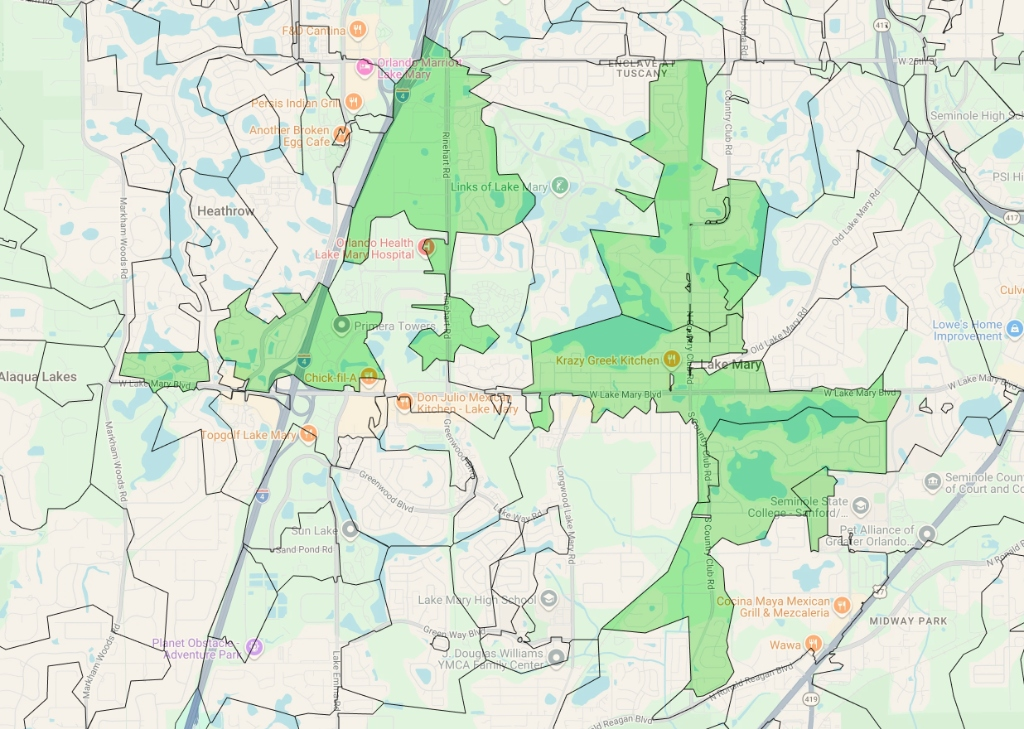
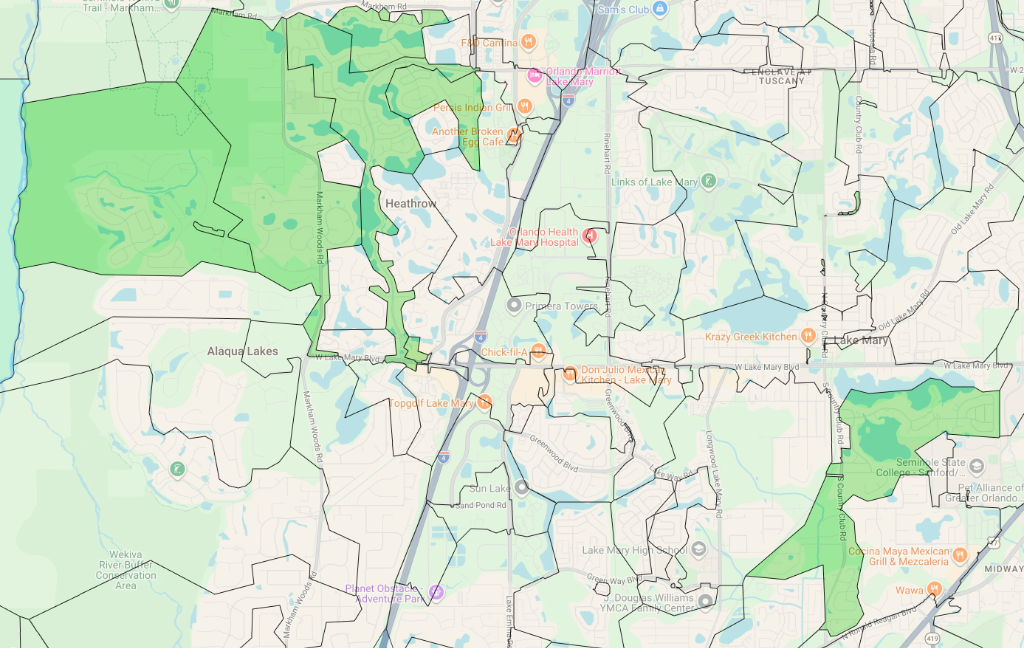
Update town averages: replace Markham Woods with Longwood, update Lake Mary statistics, and apply new map images

diff --git a/app/page.tsx b/app/page.tsx
@@ -53,7 +53,7 @@ function Reveal({
 }
 
 export default function HomePage({ initialSlug }: { initialSlug?: string }) {
-  const validSlugs = ["altamonte-springs", "lake-mary", "markham-woods", "sanford", "wekiva-springs"];
+  const validSlugs = ["altamonte-springs", "lake-mary", "longwood", "sanford", "wekiva-springs"];
 
   // Active location campaign slug: default to initialSlug or altamonte-springs
   const [activeSlug, setActiveSlug] = useState<string>(() => {
@@ -184,7 +184,7 @@ export default function HomePage({ initialSlug }: { initialSlug?: string }) {
   // Contact Form Placeholder details based on campaign
   const getBusinessPlaceholder = () => {
     switch (activeSlug) {
-      case "markham-woods": return "e.g. Heathrow Plumber";
+      case "longwood": return "e.g. Longwood Roofer";
       case "wekiva-springs": return "e.g. Sweetwater Med Spa";
       case "lake-mary": return "e.g. Lake Mary Dental";
       case "sanford": return "e.g. Historic Sanford Cafe";
@@ -318,7 +318,7 @@ export default function HomePage({ initialSlug }: { initialSlug?: string }) {
                 {campaignRoutes.map((c) => (
                   <button
                     key={c.slug}
-                    className={`location-btn ${activeSlug === (c.slug === "markham-woods" ? "markhamwoods" : c.slug) ? "active" : ""}`}
+                    className={`location-btn ${activeSlug === c.slug ? "active" : ""}`}
                     onClick={() => handleLocationChange(c.slug)}
                   >
                     {c.name}
@@ -472,7 +472,7 @@ export default function HomePage({ initialSlug }: { initialSlug?: string }) {
               {/* Map Wrapper displaying the clean map image */}
               <div className="map-wrapper">
                 <img
-                  src={activeAverages.mapImageUrl || "/assets/markham_woods_map.png"}
+                  src={activeAverages.mapImageUrl || "/assets/longwood_map.png"}
                   alt={`${activeCampaign.city} Coverage Map`}
                 />
               </div>

diff --git a/data/townAverages.ts b/data/townAverages.ts
@@ -38,11 +38,11 @@ export const townAverages: Record<string, TownAverage> = {
     slug: "lake-mary",
     city: "Lake Mary",
     doors: 2500,
-    income: "$125,283",
-    householdSize: 2.6,
-    age: 55,
-    residencyLength: 13,
-    homeowner: 91,
+    income: "$187,868",
+    householdSize: 3.0,
+    age: 54,
+    residencyLength: 14,
+    homeowner: 97,
     mapImageUrl: "/assets/lake_mary_map.png",
     cardType: "6x11",
     pricing: {
@@ -51,16 +51,16 @@ export const townAverages: Record<string, TownAverage> = {
       half: 0,
     },
   },
-  "markham-woods": {
-    slug: "markham-woods",
-    city: "Markham Woods",
+  "longwood": {
+    slug: "longwood",
+    city: "Longwood",
     doors: 5000,
-    income: "$211,831",
+    income: "$148,825",
     householdSize: 3.1,
-    age: 55,
-    residencyLength: 14,
-    homeowner: 97,
-    mapImageUrl: "/assets/markham_woods_map.png",
+    age: 53,
+    residencyLength: 15,
+    homeowner: 94,
+    mapImageUrl: "/assets/longwood_map.png",
     cardType: "9x12",
     pricing: {
       standard: 499,

diff --git a/data/routes.ts b/data/routes.ts
@@ -85,10 +85,10 @@ export const campaignRoutes: CampaignRoute[] = [
     slots: createTownSlots(community6x11SlotTemplate, [])
   },
   {
-    slug: "markham-woods",
-    name: "Markham Woods",
-    tagline: "Connecting Markham Woods Businesses With Local Families",
-    city: "Markham Woods",
+    slug: "longwood",
+    name: "Longwood",
+    tagline: "Reaching Premium Longwood Estates & Neighborhoods",
+    city: "Longwood",
     state: "FL",
     size: 5000,
     totalSlots: 16,

diff --git a/data/testimonials.ts b/data/testimonials.ts
@@ -13,7 +13,7 @@ export const testimonials: TestimonialItem[] = [
     rating: 5
   },
   {
-    quote: "Hands down the best local advertising investment we've made. Homeowners along Markham Woods Road now call us by name when they see our trucks.",
+    quote: "Best advertising investment we've made. Our neighbors already know us by name now.",
     name: "Mike D.",
     business: "Mike's Landscaping",
     rating: 5

diff --git a/app/api/contact/route.ts b/app/api/contact/route.ts
@@ -12,7 +12,7 @@ export async function POST(req: Request) {
       );
     }
 
-    const townName = town || "Markham Woods";
+    const townName = town || "Altamonte Springs";
     const business = businessName ? businessName.trim() : "New Prospect";
     
     // Subject line formula: "The X Spotlight inquiry - Y"

diff --git a/DEVELOPER_GUIDE.md b/DEVELOPER_GUIDE.md
@@ -27,7 +27,7 @@ graph TD
 * **Slugs MUST use hyphens:** All slug keys must use exact hyphenated styling:
   - `altamonte-springs`
   - `lake-mary`
-  - `markham-woods`
+  - `longwood`
   - `sanford`
   - `wekiva-springs`
 * **Route Resolution Fallbacks:** When slug parameter is missing or invalid, resolve to `"altamonte-springs"` as the first alphabetical town and root fallback.
